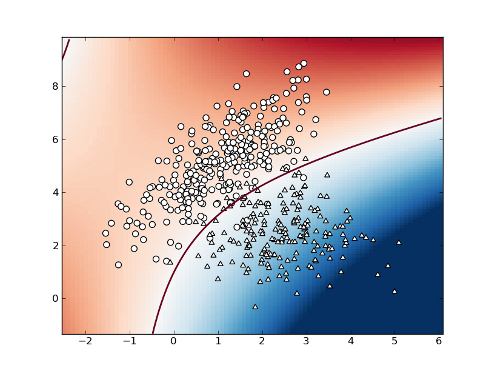
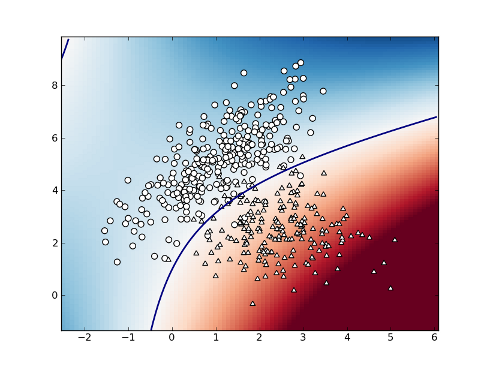
LDAC: pred_values() added

diff --git a/mlpy/da.py b/mlpy/da.py
@@ -32,6 +32,7 @@ class LDAC:
         self._labels = None
         self._w = None
         self._bias = None
+        self._model = False
       
     def learn(self, x, y):
         """Learning method.
@@ -79,6 +80,8 @@ class LDAC:
             self._bias[i] = - 0.5 * np.dot(mu[i], self._w[i]) + \
                 np.log(p[i])
 
+        self._model = True
+
     def labels(self):
         """Outputs the name of labels.
         """
@@ -89,15 +92,15 @@ class LDAC:
         """Returns the coefficients.
         For multiclass classification this method returns a 2d 
         numpy array where w[i] contains the coefficients of label i.
-        For binary classification an 1d numpy array (w_1 - w_0) 
+        For binary classification an 1d numpy array (w = w_0 - w_1)
         is returned.
         """
         
-        if self._w is None:
+        if not self._model:
             raise ValueError("no model computed.")
 
         if self._labels.shape[0] == 2:
-            return self._w[1] - self._w[0]
+            return self._w[0] - self._w[1]
         else:
             return self._w
 
@@ -105,46 +108,91 @@ class LDAC:
         """Returns the bias.
         For multiclass classification this method returns a 1d 
         numpy array where b[i] contains the coefficients of label i. 
-        For binary classification an float (b_1 - b_0) is returned.
+        For binary classification a float (b = b_0 - b_1) is returned.
         """
         
-        if self._w is None:
+        if not self._model:
             raise ValueError("no model computed.")
         
         if self._labels.shape[0] == 2:
-            return self._bias[1] - self._bias[0]
+            return self._bias[0] - self._bias[1]
         else:
             return self._bias
 
-    def pred(self, t):
-        """Does classification on test vector(s) `t`.
-      
-        :Parameters:
-            t : 1d (one sample) or 2d array_like object
-                test data ([M,] P)
-            
-        :Returns:        
-            p : integer or 1d numpy array
-                predicted class(es)
-        """
+    def _pred_values_one(self, t):
+        values = np.empty(self._labels.shape[0], dtype=np.float)
         
-        if self._w is None:
+        for i in range(self._labels.shape[0]):
+            values[i] = np.dot(t, self._w[i]) + self._bias[i]
+            
+        if self._labels.shape[0] == 2:
+            return np.array([values[0] - values[1]])
+        else:
+            return values
+
+    def _pred_one(self, t):
+        values = self._pred_values_one(t)
+        
+        if self._labels.shape[0] == 2:
+            if values > 0:
+                return self._labels[0]
+            else:
+                return self._labels[1]
+        else:
+            return self._labels[np.argmax(values)]
+
+    def pred_values(self, t):
+        """Returns D decision values for eache test sample. 
+        D is 1 if there are two classes (g(t) = g_1(t) - g_2(t)) 
+        and it is the number of classes (g_1(t), g_2(t), ..., g_C(t)) 
+        otherwise.
+        
+        :Parameters :	
+           t : 1d (one sample) or 2d array_like object
+              test data ([M,] P)
+        :Returns :	
+           decision values : 1d (D) or 2d numpy array (M, D)
+              decision values for each observation.
+        """
+
+        if not self._model:
             raise ValueError("no model computed.")
 
         tarr = np.asarray(t, dtype=np.float)
-
+                
         if tarr.ndim == 1:
-            delta = np.empty(self._labels.shape[0], dtype=np.float)
-            for i in range(self._labels.shape[0]):
-                delta[i] = np.dot(tarr, self._w[i]) + self._bias[i]
-            return self._labels[np.argmax(delta)]
+            return self._pred_values_one(tarr)
         else:
-            delta = np.empty((tarr.shape[0], self._labels.shape[0]),
-                        dtype=np.float)
-            for i in range(self._labels.shape[0]):
-                delta[:, i] = np.dot(tarr, self._w[i]) + self._bias[i]
-            return self._labels[np.argmax(delta, axis=1)]
+            values = []
+            for i in range(tarr.shape[0]):
+                values.append(self._pred_values_one(tarr[i]))
+            return np.array(values)
 
+    def pred(self, t):
+        """Does classification on test vector(s) `t`.
+        Returns the class with the highest decision value.
+        
+        :Parameters:
+            t : 1d (one sample) or 2d array_like object
+               test sample(s) ([M,] P)
+            
+        :Returns:        
+            p : integer or 1d numpy array
+               predicted class(es)
+        """
+                                
+        if not self._model:
+            raise ValueError("no model computed.")
+
+        tarr = np.asarray(t, dtype=np.float)
+                
+        if tarr.ndim == 1:
+            return self._pred_one(tarr)
+        else:
+            pred = []
+            for i in range(tarr.shape[0]):
+                pred.append(self._pred_one(tarr[i]))
+            return np.array(pred)
 
 
 class DLDA:
@@ -493,25 +541,40 @@ class QDA:
         values = np.empty(self._labels.shape[0], dtype=np.float)
         
         for i in range(self._labels.shape[0]):
-            tm = t - self._mean[i]
-            
+            tm = t - self._mean[i]   
             tmp1 = np.dot(tm, self._evecs[i])
             tmp2 = np.dot(tmp1, np.diag(1.0 / self._evals[i]))
             tmp3 = np.dot(tmp2, tmp1.T)
-
             values[i] = - 0.5 * np.sum(np.log(self._evals[i])) - \
                 0.5 * tmp3 + np.log(self._prior[i])
         
-        return values
-                             
+        if self._labels.shape[0] == 2:
+            return np.array([values[0] - values[1]])
+        else:
+            return values
+        
+    def _pred_one(self, t):
+        values = self._pred_values_one(t)
+        
+        if self._labels.shape[0] == 2:
+            if values > 0:
+                return self._labels[0]
+            else:
+                return self._labels[1]
+        else:
+            return self._labels[np.argmax(values)]
+                                
     def pred_values(self, t):
-        """Returns C (number of classes) decision values.
+        """Returns D decision values for eache test sample. 
+        D is 1 if there are two classes (g(t) = g_1(t) - g_2(t)) 
+        and it is the number of classes (g_1(t), g_2(t), ..., g_C(t)) 
+        otherwise.
         
         :Parameters :	
            t : 1d (one sample) or 2d array_like object
               test data ([M,] P)
         :Returns :	
-           decision values : 1d (C) or 2d numpy array (M, C)
+           decision values : 1d (D) or 2d numpy array (M, D)
               decision values for each observation.
         """
         
@@ -519,15 +582,14 @@ class QDA:
             raise ValueError("no model computed.")
 
         tarr = np.asarray(t, dtype=np.float)
-    
+                
         if tarr.ndim == 1:
             return self._pred_values_one(tarr)
         else:
-            values = np.empty((tarr.shape[0], self._labels.shape[0]), 
-                              dtype=np.float)
+            values = []
             for i in range(tarr.shape[0]):
-                values[i] = self._pred_values_one(tarr[i])
-            return values
+                values.append(self._pred_values_one(tarr[i]))
+            return np.array(values)
     
     def pred(self, t):
         """Does classification on test vector(s) `t`.
@@ -541,12 +603,19 @@ class QDA:
             p : integer or 1d numpy array
                 predicted class(es)
         """
+                                
+        if not self._model:
+            raise ValueError("no model computed.")
 
-        values = self.pred_values(t)
-        if values.ndim == 1:
-            return self._labels[np.argmax(values)]
+        tarr = np.asarray(t, dtype=np.float)
+                
+        if tarr.ndim == 1:
+            return self._pred_one(tarr)
         else:
-            return self._labels[np.argmax(values, axis=1)]
+            pred = []
+            for i in range(tarr.shape[0]):
+                pred.append(self._pred_one(tarr[i]))
+            return np.array(pred)
 
     def labels(self):
         """Outputs the name of labels.
